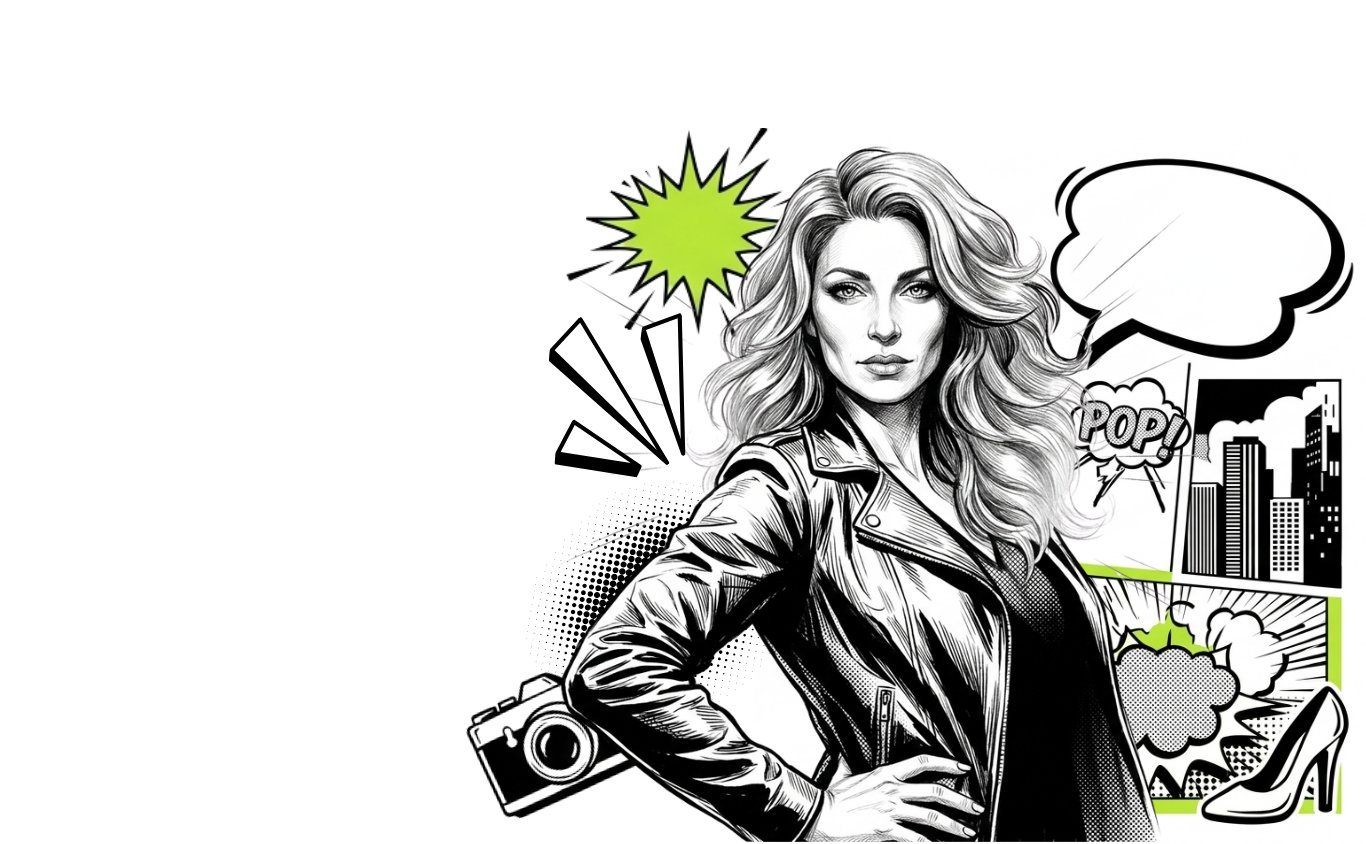
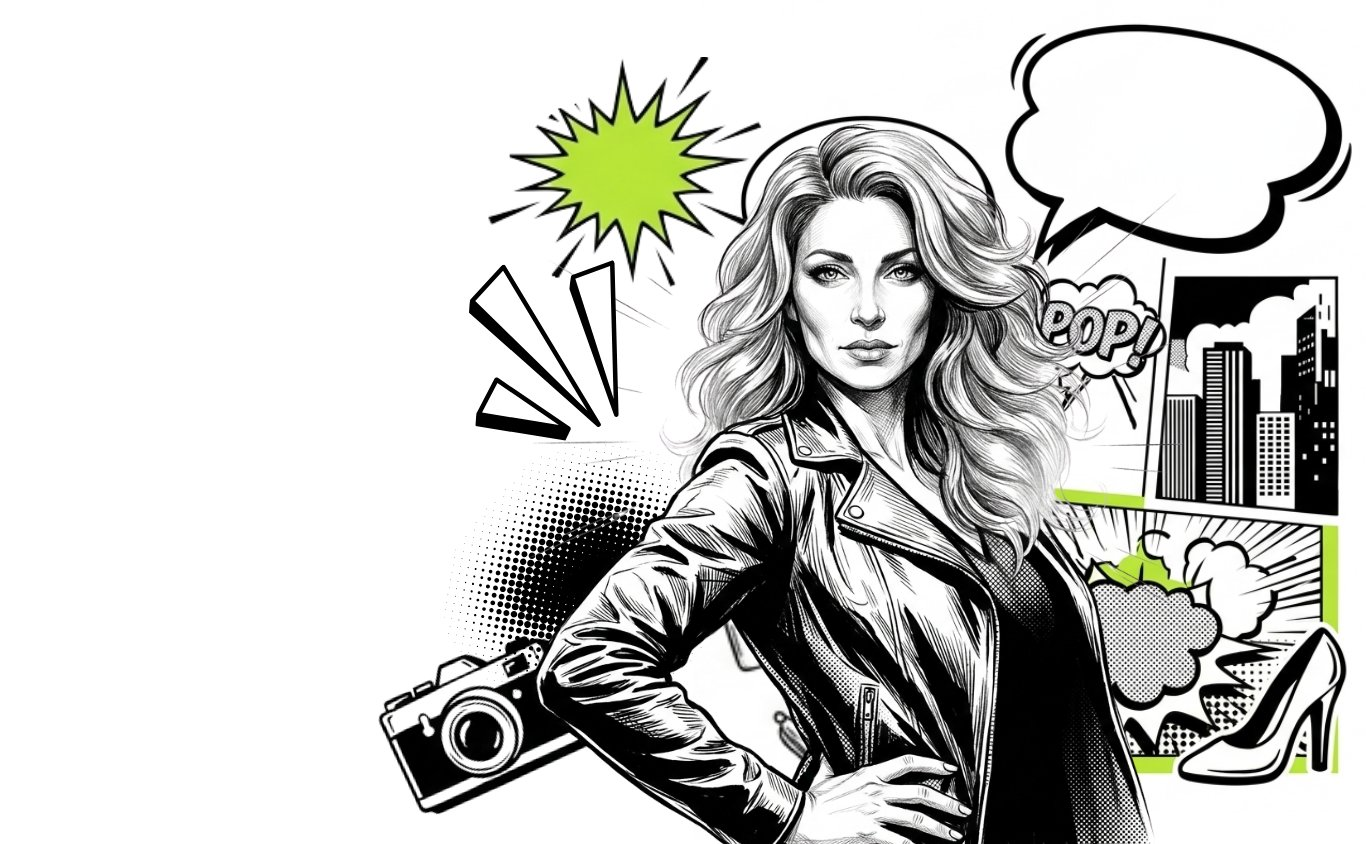
feat: update Constantina_Light_v2.html and WEB_CONSTANTINA_cover.png

diff --git a/apps/content-studio/public/constantina/Constantina_Light_v2.html b/apps/content-studio/public/constantina/Constantina_Light_v2.html
@@ -60,26 +60,26 @@
   /* ===== HERO ===== */
   .hero{
     position:relative;
-    width:100%;min-height:600px;
+    width:100%;min-height:680px;
     background:#fff;
     overflow:hidden;
     display:flex;align-items:stretch;
   }
   .hero-bg{
     position:absolute;top:0;right:0;bottom:0;
-    width:72%;
-    background:url('WEB_CONSTANTINA_cover.png') center right / cover no-repeat;
+    width:80%;
+    background:url('WEB_CONSTANTINA_cover.png') center right / contain no-repeat;
     z-index:1;
   }
   .hero-bg::before{
     content:'';position:absolute;top:0;left:0;bottom:0;
-    width:50%;
-    background:linear-gradient(to right,#fff 40%,transparent 100%);
+    width:40%;
+    background:linear-gradient(to right,#fff 30%,transparent 100%);
     z-index:2;
   }
   .hero-content{
     position:relative;z-index:10;
-    width:52%;flex-shrink:0;
+    width:48%;flex-shrink:0;
     padding:56px 0 56px 48px;
     display:flex;flex-direction:column;justify-content:center;
   }
